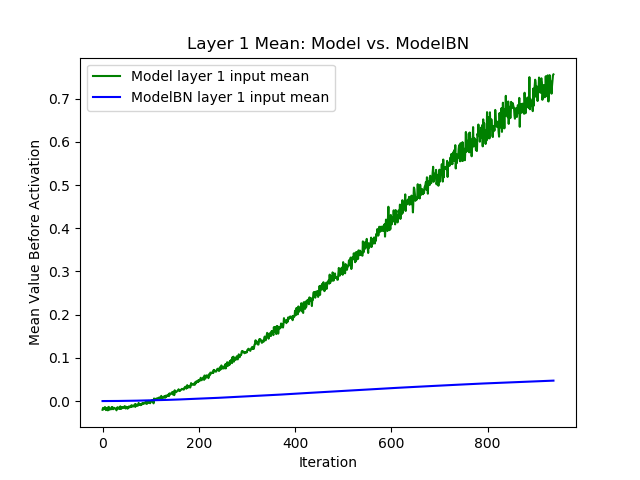
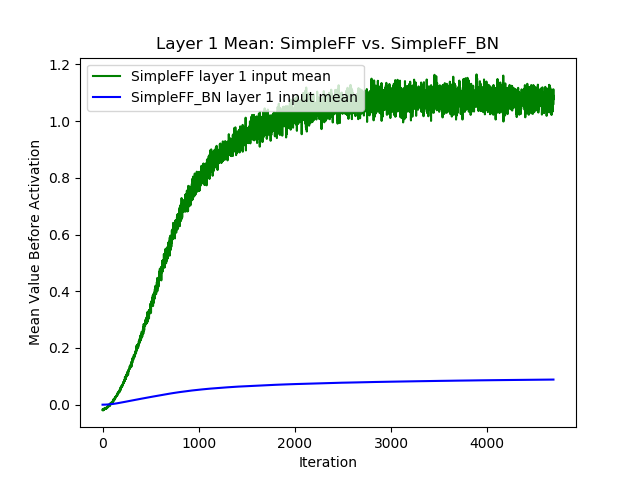
tensorboardX

diff --git a/batch-norm/bn/run.py b/batch-norm/bn/run.py
@@ -2,36 +2,37 @@ import matplotlib.pyplot as plt
 
 from bn.train import train, ModelType
 
-l1_mean, l1_std, l2_mean, l2_std, loss_arr, model_type = train(model_type=ModelType.FF, num_epochs=2)
-l1_mean_bn, l1_std_bn, l2_mean_bn, l2_std_bn, loss_arr_bn, model_type_bn = train(model_type=ModelType.BN, num_epochs=2)
+l1_mean, l1_std, l2_mean, l2_std, loss_arr, model_type = train(model_type=ModelType.SIMPLE_FF, num_epochs=10)
+l1_mean_bn, l1_std_bn, l2_mean_bn, l2_std_bn, loss_arr_bn, model_type_bn = train(model_type=ModelType.SIMPLE_FF_BN, num_epochs=10)
+_, _, _, _, _, _ = train(model_type=ModelType.SIMPLE_FF_BN_NOISE, num_epochs=10)
 
 """
 Move plots to another file if they get in the way
 """
-# plot layer 1
-plt.plot(l1_mean, 'g', label='%s layer 1 input mean' % model_type)
-plt.plot(l1_mean_bn, 'b', label='%s layer 1 input mean' % model_type_bn)
-plt.title('Layer 1 Mean: %s vs. %s' % (model_type, model_type_bn))
-plt.ylabel('Mean Value Before Activation')
-plt.xlabel('Iteration')
-plt.legend(loc='upper left')
-plt.savefig('imgs/l1_mean.png')
-plt.close()
-
-# plot layer 2
-plt.plot(l2_mean, 'g', label='%s layer 2 input mean' % model_type)
-plt.plot(l2_mean_bn, 'b', label='%s layer 2 input mean' % model_type_bn)
-plt.title('Layer 2 Mean: %s vs. %s' % (model_type, model_type_bn))
-plt.ylabel('Mean Value Before Activation')
-plt.xlabel('Iteration')
-plt.legend(loc='upper left')
-plt.savefig('imgs/l2_mean.png')
-plt.close()
-
-# plot model loss
-plt.plot(loss_arr, 'r', label='%s loss' % model_type)
-plt.plot(loss_arr_bn, 'y', label='%s loss' % model_type_bn)
-plt.title('Loss: %s vs. %s' % (model_type, model_type_bn))
-plt.legend(loc='upper right')
-plt.savefig('imgs/loss.png')
-plt.close()
+# # plot layer 1
+# plt.plot(l1_mean, 'g', label='%s layer 1 input mean' % model_type)
+# plt.plot(l1_mean_bn, 'b', label='%s layer 1 input mean' % model_type_bn)
+# plt.title('Layer 1 Mean: %s vs. %s' % (model_type, model_type_bn))
+# plt.ylabel('Mean Value Before Activation')
+# plt.xlabel('Iteration')
+# plt.legend(loc='upper left')
+# plt.savefig('imgs/l1_mean.png')
+# plt.close()
+#
+# # plot layer 2
+# plt.plot(l2_mean, 'g', label='%s layer 2 input mean' % model_type)
+# plt.plot(l2_mean_bn, 'b', label='%s layer 2 input mean' % model_type_bn)
+# plt.title('Layer 2 Mean: %s vs. %s' % (model_type, model_type_bn))
+# plt.ylabel('Mean Value Before Activation')
+# plt.xlabel('Iteration')
+# plt.legend(loc='upper left')
+# plt.savefig('imgs/l2_mean.png')
+# plt.close()
+#
+# # plot model loss
+# plt.plot(loss_arr, 'r', label='%s loss' % model_type)
+# plt.plot(loss_arr_bn, 'y', label='%s loss' % model_type_bn)
+# plt.title('Loss: %s vs. %s' % (model_type, model_type_bn))
+# plt.legend(loc='upper right')
+# plt.savefig('imgs/loss.png')
+# plt.close()

diff --git a/batch-norm/bn/bn/VGG.py b/batch-norm/bn/bn/VGG.py
@@ -1,0 +1,43 @@
+import torch
+import torch.nn as nn
+import numpy as np
+
+#  TODO:
+# copied and altered to expose weights from the pytorch source code
+class VGG(nn.Module):
+
+    def __init__(self, features, num_classes=1000, init_weights=True):
+        super(VGG, self).__init__()
+        self.features = features
+        self.avgpool = nn.AdaptiveAvgPool2d((7, 7))
+        self.classifier = nn.Sequential(
+            nn.Linear(512 * 7 * 7, 4096),
+            nn.ReLU(True),
+            nn.Dropout(),
+            nn.Linear(4096, 4096),
+            nn.ReLU(True),
+            nn.Dropout(),
+            nn.Linear(4096, num_classes),
+        )
+        if init_weights:
+            self._initialize_weights()
+
+    def forward(self, x):
+        x = self.features(x)
+        x = self.avgpool(x)
+        x = torch.flatten(x, 1)
+        x = self.classifier(x)
+        return x
+
+    def _initialize_weights(self):
+        for m in self.modules():
+            if isinstance(m, nn.Conv2d):
+                nn.init.kaiming_normal_(m.weight, mode='fan_out', nonlinearity='relu')
+                if m.bias is not None:
+                    nn.init.constant_(m.bias, 0)
+            elif isinstance(m, nn.BatchNorm2d):
+                nn.init.constant_(m.weight, 1)
+                nn.init.constant_(m.bias, 0)
+            elif isinstance(m, nn.Linear):
+                nn.init.normal_(m.weight, 0, 0.01)
+                nn.init.constant_(m.bias, 0)

diff --git a/batch-norm/bn/bn/train.py b/batch-norm/bn/bn/train.py
@@ -12,14 +12,16 @@ import torch.nn as nn
 import torch.optim as optim
 
 import seaborn as sns
+from tensorboardX import SummaryWriter
 
 
 class ModelType(str, Enum):
-    FF = 'Model'
-    BN = 'ModelBN'
+    SIMPLE_FF = 'SimpleFF'
+    SIMPLE_FF_BN = 'SimpleFFBN'
+    SIMPLE_FF_BN_NOISE = 'SimpleFFBNNoise'
 
 
-def train(model_type=ModelType.FF, batch_size=128, num_epochs=2):
+def train(model_type=ModelType.SIMPLE_FF, batch_size=128, num_epochs=2):
     trainset = torchvision.datasets.MNIST(
         root='./data',
         train=True,
@@ -39,10 +41,16 @@ def train(model_type=ModelType.FF, batch_size=128, num_epochs=2):
     opt = optim.SGD(model.parameters(), lr=0.01)
 
     loss_arr = []
+    l1_weights = []
+    l2_weights = []
+
+    writer = SummaryWriter(log_dir='runs/' + model_type.value)
 
     for epoch in range(num_epochs):
 
         for i, data in enumerate(trainloader, 0):
+
+            n_iter = (epoch * len(trainloader)) + i
 
             inputs, labels = data
 
@@ -53,6 +61,10 @@ def train(model_type=ModelType.FF, batch_size=128, num_epochs=2):
             opt.step()
 
             loss_arr.append(loss.item())
+
+            writer.add_scalar('loss', loss.item(), n_iter)
+            writer.add_scalar('inputs/layer1/mean', model.l1_inp.mean(), n_iter)
+            writer.add_scalar('inputs/layer2/mean', model.l2_inp.mean(), n_iter)
 
             if i % 10 == 0:
                 inputs = inputs.view(inputs.size(0), -1)

diff --git a/batch-norm/bn/bn/SimpleFFBNNoise.py b/batch-norm/bn/bn/SimpleFFBNNoise.py
@@ -1,13 +1,17 @@
+import torch
 import torch.nn as nn
 import numpy as np
 
 
-class ModelBN(nn.Module):
+class SimpleFFBNNoise(nn.Module):
     def __init__(self):
-        super(ModelBN, self).__init__()
+        super(SimpleFFBNNoise, self).__init__()
 
         self.l1_dist = []
         self.l2_dist = []
+
+        self.l1_inp = []
+        self.l2_inp = []
 
         self.l1 = nn.Linear(784, 48)
         self.bn1 = nn.BatchNorm1d(48)
@@ -22,15 +26,29 @@ class ModelBN(nn.Module):
         x = self.l1(x)
         x = self.bn1(x)
 
+        mean1 = x.mean().item()
+        std1 = x.std().item() * np.random.uniform(1, 2)
+        noise1 = torch.tensor(np.random.normal(loc=mean1, scale=std1, size=x.shape))
+
+        x += noise1
+
         x1 = x.detach().mean()
         self.l1_dist.append((x1.mean(), x1.std()))
+        self.l1_inp = x1
 
         x = self.r1(x)
         x = self.l2(x)
-        self.bn2(x)
+        x = self.bn2(x)
+
+        mean2 = x.mean().item()
+        std2 = x.std().item() * np.random.uniform(1, 2)
+        noise2 = torch.tensor(np.random.normal(loc=mean2, scale=std2, size=x.shape))
+
+        x += noise2
 
         x2 = x.detach().numpy()
         self.l2_dist.append((x2.mean(), x2.std()))
+        self.l2_inp = x2
 
         x = self.r2(x)
         x = self.l3(x)

diff --git a/batch-norm/bn/bn/SimpleFFBN.py b/batch-norm/bn/bn/SimpleFFBN.py
@@ -1,33 +1,41 @@
-import torch
 import torch.nn as nn
 import numpy as np
 
 
-class Model(nn.Module):
+class SimpleFFBN(nn.Module):
     def __init__(self):
-        super(Model, self).__init__()
+        super(SimpleFFBN, self).__init__()
 
         self.l1_dist = []
         self.l2_dist = []
 
+        self.l1_inp = []
+        self.l2_inp = []
+
         self.l1 = nn.Linear(784, 48)
+        self.bn1 = nn.BatchNorm1d(48)
         self.r1 = nn.ReLU()
         self.l2 = nn.Linear(48, 24)
+        self.bn2 = nn.BatchNorm1d(24)
         self.r2 = nn.ReLU()
         self.l3 = nn.Linear(24, 10)
 
     def forward(self, inp):
         x = inp.view(inp.size(0), -1)
         x = self.l1(x)
+        x = self.bn1(x)
 
-        x1 = x.detach().numpy()
+        x1 = x.detach().mean()
         self.l1_dist.append((x1.mean(), x1.std()))
+        self.l1_inp = x1
 
         x = self.r1(x)
         x = self.l2(x)
+        x = self.bn2(x)
 
         x2 = x.detach().numpy()
         self.l2_dist.append((x2.mean(), x2.std()))
+        self.l2_inp = x2
 
         x = self.r2(x)
         x = self.l3(x)

diff --git a/batch-norm/bn/bn/SimpleFF.py b/batch-norm/bn/bn/SimpleFF.py
@@ -1,0 +1,40 @@
+import torch
+import torch.nn as nn
+import numpy as np
+
+
+class SimpleFF(nn.Module):
+    def __init__(self):
+        super(SimpleFF, self).__init__()
+
+        self.l1_dist = []
+        self.l2_dist = []
+
+        self.l1_inp = []
+        self.l2_inp = []
+
+        self.l1 = nn.Linear(784, 48)
+        self.r1 = nn.ReLU()
+        self.l2 = nn.Linear(48, 24)
+        self.r2 = nn.ReLU()
+        self.l3 = nn.Linear(24, 10)
+
+    def forward(self, inp):
+        x = inp.view(inp.size(0), -1)
+        x = self.l1(x)
+
+        x1 = x.detach().numpy()
+        self.l1_dist.append((x1.mean(), x1.std()))
+        self.l1_inp = x1
+
+        x = self.r1(x)
+        x = self.l2(x)
+
+        x2 = x.detach().numpy()
+        self.l2_dist.append((x2.mean(), x2.std()))
+        self.l2_inp = x2
+
+        x = self.r2(x)
+        x = self.l3(x)
+
+        return x

diff --git a/batch-norm/bn/bn/__init__.py b/batch-norm/bn/bn/__init__.py
@@ -1,2 +1,3 @@
-from .model import Model
-from .model_bn import ModelBN
+from .SimpleFF import SimpleFF
+from .SimpleFFBN import SimpleFFBN
+from .SimpleFFBNNoise import SimpleFFBNNoise
